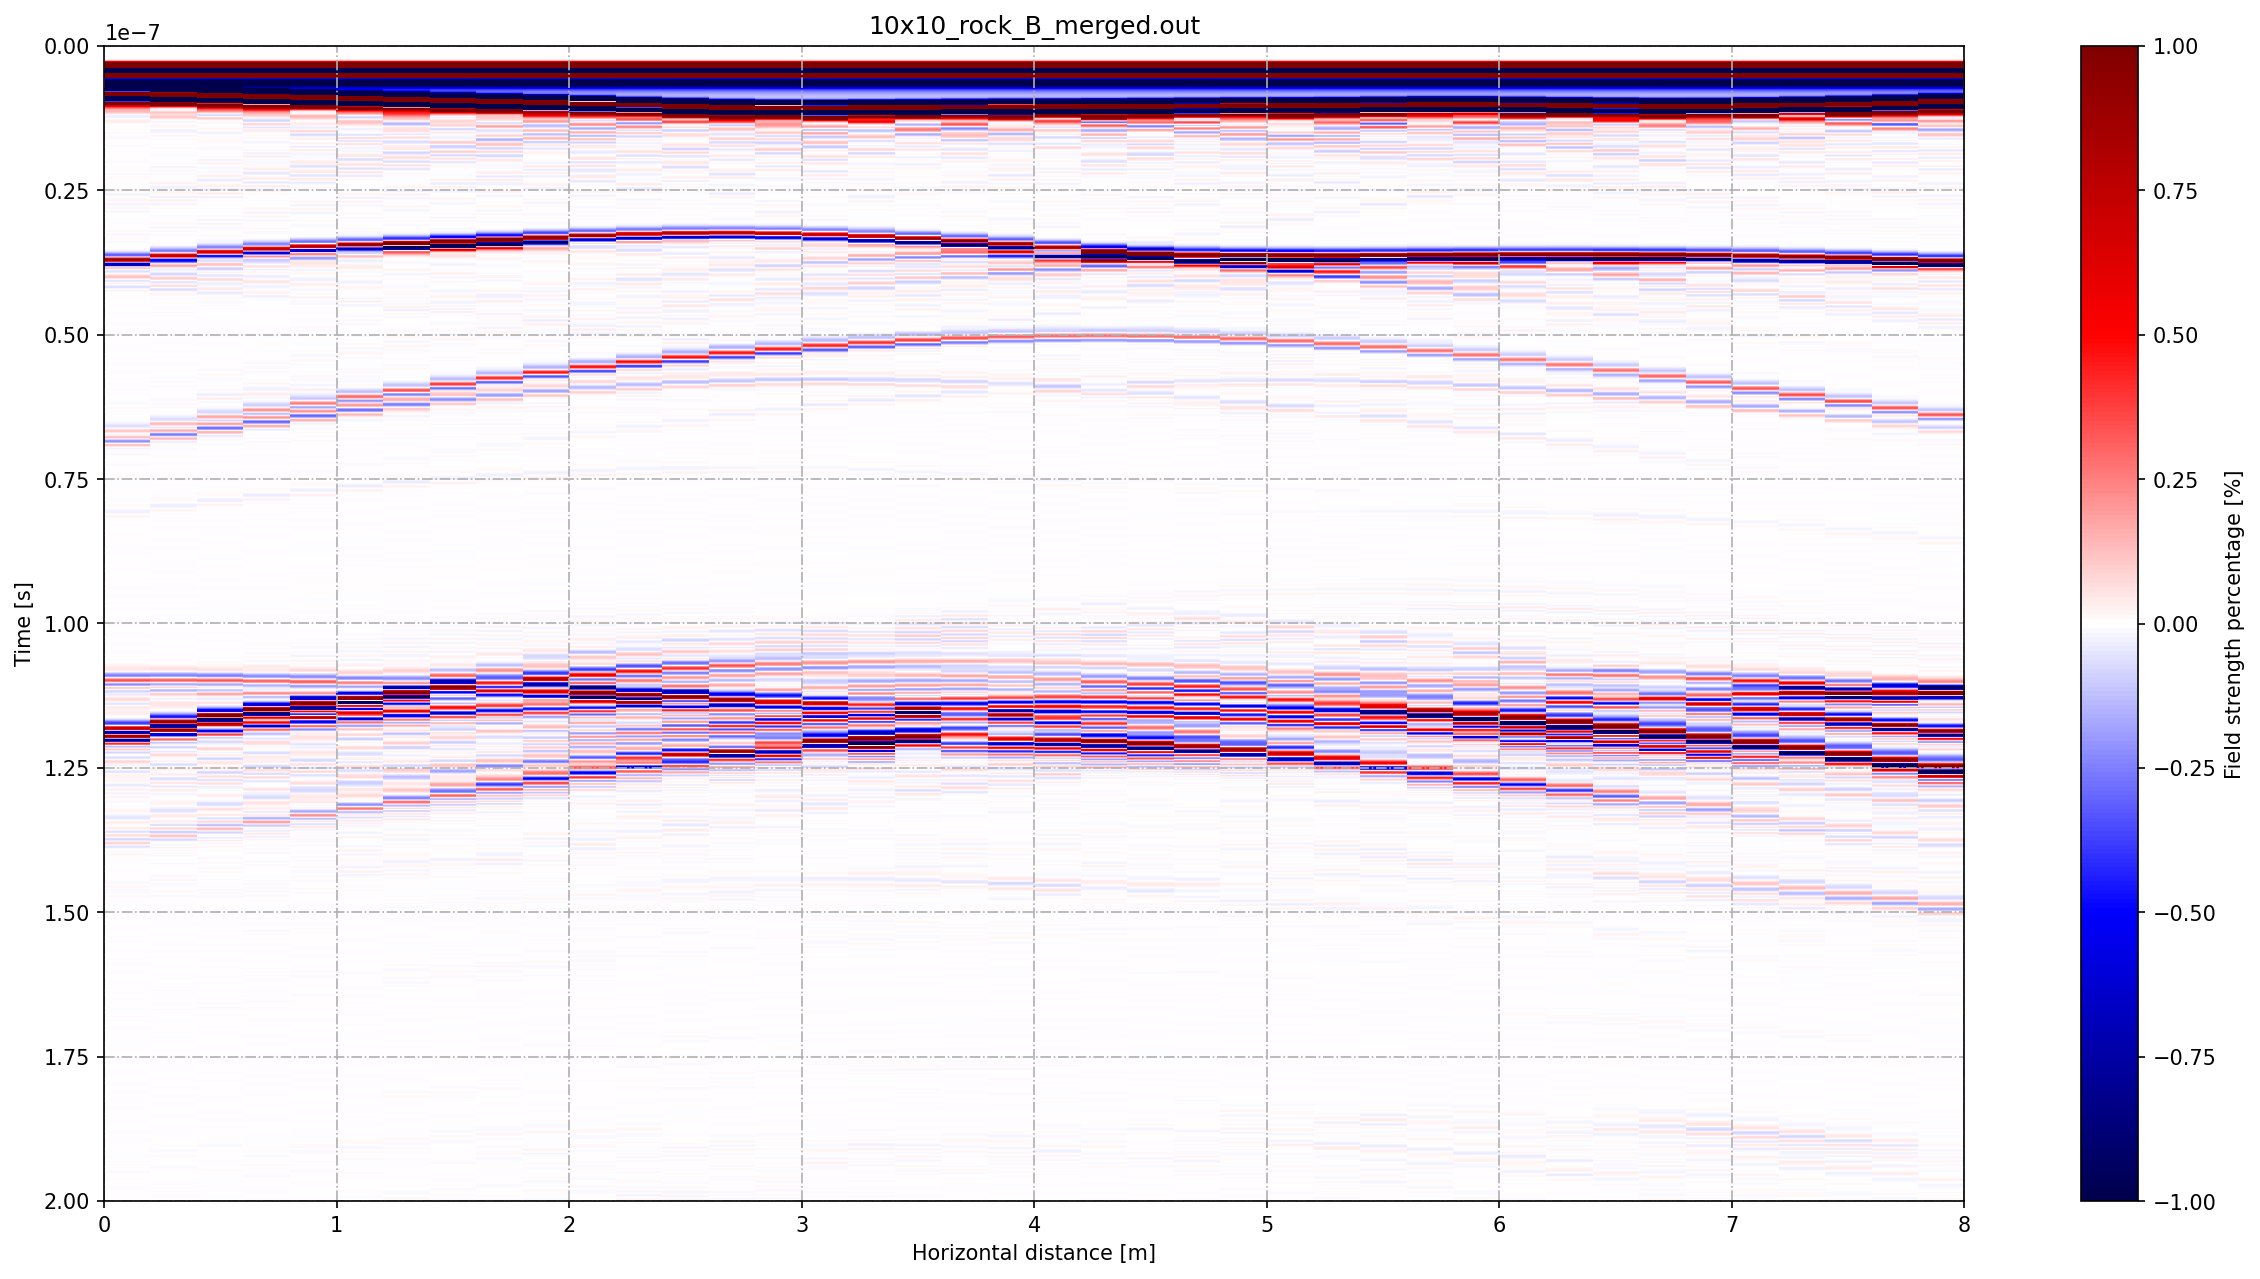
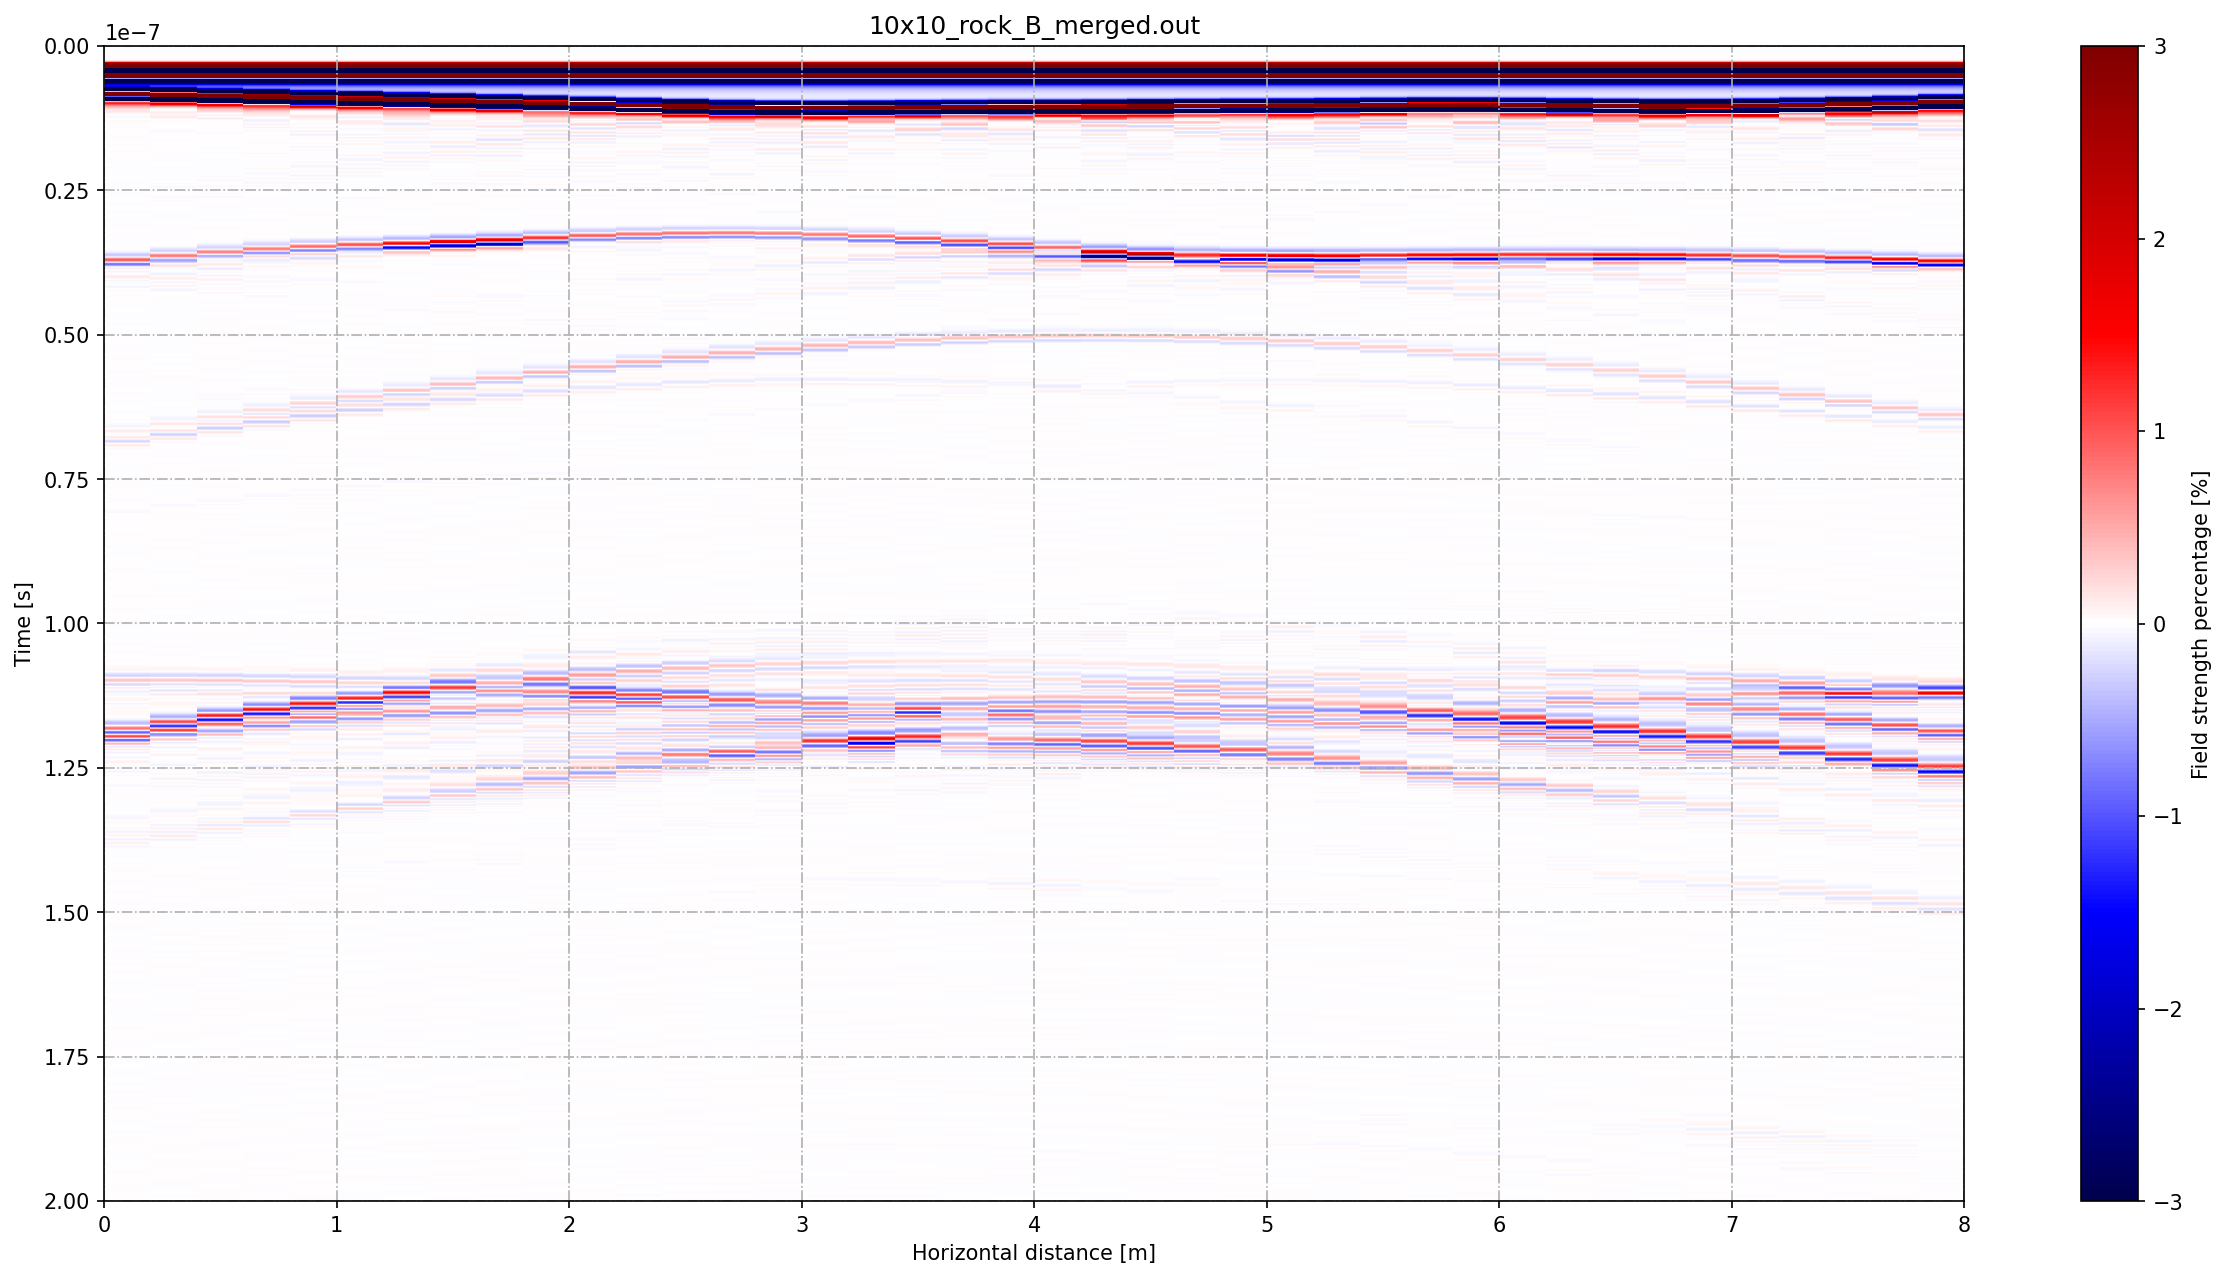
10x10 rock 3layers change color range

diff --git a/tools/plot_Bscan.py b/tools/plot_Bscan.py
@@ -50,28 +50,6 @@ def mpl_plot(filename, outputdata, dt, rxnumber, rxcomponent):
     fig = plt.figure(num=filename + ' - rx' + str(rxnumber), 
                      figsize=(20, 10), facecolor='w', edgecolor='w')
     
-    """ 追加（logスケールにするやつ
-    for i in range(len(outputdata)):
-        for j in range(len(outputdata[i])):
-            if outputdata[i][j] > 0:
-                outputdata[i][j] = np.log10(outputdata[i][j])
-            elif outputdata[i][j] < 0:
-                outputdata[i][j] = -np.log10(-outputdata[i][j])
-            #elif outputdata[i][j] == 0:
-            #    outputdata[i][j] = 0
-    追加 """
-
-    """ 追加 （dBスケールっぽくするやつ）
-    # Check the elements of "outputdata" one by one using a for statement, and if they are positive, rewrite the array elements to 1
-    for i in range(len(outputdata)):
-        for j in range(len(outputdata[i])):
-            if outputdata[i][j] > 0:
-                outputdata[i][j] = - 10 * np.log10(outputdata[i][j] / np.amax(outputdata))
-            elif outputdata[i][j] < 0:
-                outputdata[i][j] = 10 * np.log10(outputdata[i][j] / np.amin(outputdata))
-            elif outputdata[i][j] == 0:
-                outputdata[i][j] = 0
-    追加 """
 
     # [%]に変換
     outputdata_norm = outputdata / np.amax(np.abs(outputdata)) * 100
@@ -88,7 +66,7 @@ def mpl_plot(filename, outputdata, dt, rxnumber, rxcomponent):
                 interpolation='nearest', aspect='auto', cmap='seismic', vmin=-3, vmax=3)
         plt.xlabel('Horizontal distance [m]')
         plt.ylabel('Time [s]')
-        closeup = True # True or False
+        closeup = False # True or False
         if closeup:
             closeup_start = 0
             closeup_end = 0.25
